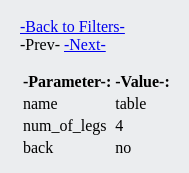
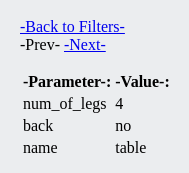
Fix 'answer_column' config param

diff --git a/examples/furniture/rank_pages/index.html b/examples/furniture/rank_pages/index.html
@@ -9,7 +9,7 @@ Project is distributed under the BSD 3-Clause license.
 
 <script>
 const ANSWER_COLUMN = "name";
-const VALUES_DICT = {'name': ['chair', 'stool', 'table'], 'num_of_legs': [3, 4], 'back': ['no', 'yes']};
+const VALUES_DICT = {'num_of_legs': [3, 4], 'back': ['no', 'yes'], 'name': ['chair', 'stool', 'table']};
 const DETAILS_PAGE = {'table': 'pages/0.html', 'chair': 'pages/1.html', 'stool': 'pages/2.html'};
 const WEIGHTS_DICT = {'table': {'num_of_legs': {3: 0.0, 4: 1.0}, 'back': {'no': 1.0, 'yes': 0.0}}, 'chair': {'num_of_legs': {3: 0.0, 4: 1.0}, 'back': {'no': 0.0, 'yes': 1.0}}, 'stool': {'num_of_legs': {3: 1.0, 4: 0.0}, 'back': {'no': 1.0, 'yes': 0.0}}};
 const TRANSLATION_DICT = {'Reset': '-Reset-', 'Parameters': '-Parameters-', 'Results': '-Results-', 'filterseparator': '#', 'Back to Filters': '-Back to Filters-', 'Prev': '-Prev-', 'Next': '-Next-', 'Parameter': '-Parameter-', 'Value': '-Value-', 'empty': '-empty-'};

diff --git a/examples/furniture/rank_pages/pages/1.html b/examples/furniture/rank_pages/pages/1.html
@@ -17,9 +17,9 @@ Project is distributed under the BSD 3-Clause license.
 <div class="characteristics">
 <table>
 <tr> <th>-Parameter-:</th> <th>-Value-:</th> </tr>
-<tr> <td>name</td> <td>chair</td> </tr>
 <tr> <td>num_of_legs</td> <td>4</td> </tr>
 <tr> <td>back</td> <td>yes</td> </tr>
+<tr> <td>name</td> <td>chair</td> </tr>
 </table>
 </div>
 </body>

diff --git a/examples/furniture/rank_pages/pages/0.html b/examples/furniture/rank_pages/pages/0.html
@@ -17,9 +17,9 @@ Project is distributed under the BSD 3-Clause license.
 <div class="characteristics">
 <table>
 <tr> <th>-Parameter-:</th> <th>-Value-:</th> </tr>
-<tr> <td>name</td> <td>table</td> </tr>
 <tr> <td>num_of_legs</td> <td>4</td> </tr>
 <tr> <td>back</td> <td>no</td> </tr>
+<tr> <td>name</td> <td>table</td> </tr>
 </table>
 </div>
 </body>

diff --git a/examples/furniture/rank_pages/pages/2.html b/examples/furniture/rank_pages/pages/2.html
@@ -17,9 +17,9 @@ Project is distributed under the BSD 3-Clause license.
 <div class="characteristics">
 <table>
 <tr> <th>-Parameter-:</th> <th>-Value-:</th> </tr>
-<tr> <td>name</td> <td>stool</td> </tr>
 <tr> <td>num_of_legs</td> <td>3</td> </tr>
 <tr> <td>back</td> <td>no</td> </tr>
+<tr> <td>name</td> <td>stool</td> </tr>
 </table>
 </div>
 </body>

diff --git a/src/rankpagegenerator/generator/jsgen.py b/src/rankpagegenerator/generator/jsgen.py
@@ -37,7 +37,7 @@ def generate_javascript(data_loader: DataLoader, embed, output_path):
     navigation_script_path = os.path.join(DATA_DIR, "navigate.js")
     css_styles_path = os.path.join(DATA_DIR, "styles.css")
 
-    answer_column_id = data_loader.get_answer_column()
+    answer_column_id = data_loader.get_answer_column_name()
 
     _LOGGER.info("answer column id: %s", answer_column_id)
 
@@ -109,6 +109,7 @@ const TRANSLATION_DICT = {data_loader.translation_dict};"""
 def generate_answer_details_pages(data_loader: DataLoader, output_path):
     model_json = data_loader.get_model_json()
     translation_dict = data_loader.translation_dict
+    answer_column_id = data_loader.get_answer_column_name()
 
     ## generate answer pages
     page_title = data_loader.get_page_title()
@@ -124,11 +125,11 @@ def generate_answer_details_pages(data_loader: DataLoader, output_path):
         value_list = list(row_dict.values())  # values
         data_dict = dict(zip(field_list, value_list))
 
-        answer = value_list[0][0]
+        answer_value = row_dict[answer_column_id][0]
         details_dict = None
         for item in data_loader.details_dict:
             item_detail = list(item.values())  # list of lists
-            if item_detail[0][0] == answer:
+            if item_detail[0][0] == answer_value:
                 details_dict = item
                 details_dict.pop(next(iter(details_dict)))  # remove first key
                 data_dict.update(details_dict)
@@ -138,7 +139,7 @@ def generate_answer_details_pages(data_loader: DataLoader, output_path):
 
         curr_page_title = page_title
         if curr_page_title:
-            curr_page_title = f"""<title>{answer} - {curr_page_title}</title>"""
+            curr_page_title = f"""<title>{answer_value} - {curr_page_title}</title>"""
 
         prev_link = data_loader.get_translation("Prev")
         if answer_counter > 0:
@@ -175,6 +176,6 @@ def generate_answer_details_pages(data_loader: DataLoader, output_path):
         answer_counter += 1
 
         rel_path = os.path.join(pages_dir, page_name)
-        ret_dict[answer] = rel_path
+        ret_dict[answer_value] = rel_path
 
     return ret_dict

diff --git a/src/rankpagegenerator/generator/dataloader.py b/src/rankpagegenerator/generator/dataloader.py
@@ -104,14 +104,18 @@ class DataLoader:
         model_data: DataFrame = self.model_data
         weights_dict = {}
 
+        answer_column_id = self.get_answer_column_name()
+
         header_row = model_data.columns
         column_names = header_row.to_list()
         for _index, row_data in model_data.iterrows():
-            answer_id = row_data.iloc[0]
-            weights_dict[answer_id] = {}
+            answer_value = row_data[answer_column_id]
+            weights_dict[answer_value] = {}
             row_length = len(row_data)
-            for row_index in range(1, row_length):
+            for row_index in range(0, row_length):
                 col_name = column_names[row_index]
+                if col_name == answer_column_id:
+                    continue
                 order_values = order_dict.get(col_name)
                 if order_values is None:
                     # order not specified for given category - use binary rule
@@ -122,13 +126,13 @@ class DataLoader:
 
                     row_values = row_data.iloc[row_index]
                     col_weights_dict = calculate_weights_binary(row_values, cat_values_set)
-                    weights_dict[answer_id][col_name] = col_weights_dict
+                    weights_dict[answer_value][col_name] = col_weights_dict
                     continue
 
                 try:
                     row_values = row_data.iloc[row_index]
                     col_weights_dict = calculate_weights(row_values, order_values)
-                    weights_dict[answer_id][col_name] = col_weights_dict
+                    weights_dict[answer_value][col_name] = col_weights_dict
                 except ValueError:
                     _LOGGER.exception("unable to find row value in order list '%s' (%s)", col_name, order_values)
                     raise
@@ -152,7 +156,7 @@ class DataLoader:
     def get_page_title(self):
         return self.config_dict.get("page_title", "")
 
-    def get_answer_column(self):
+    def get_answer_column_name(self):
         answer_column_id = self.config_dict.get("answer_column")
         if answer_column_id is not None:
             return answer_column_id
